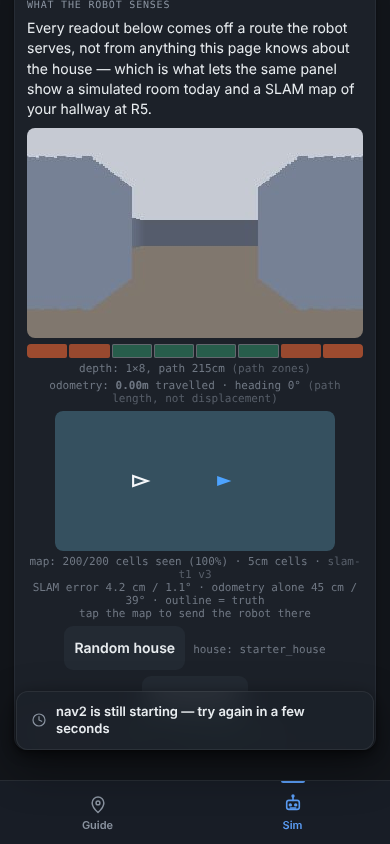
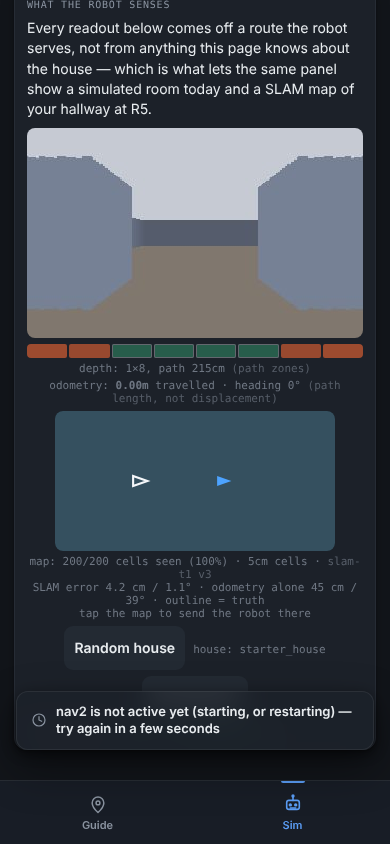
3.127.A review round 2: the nav2 toast says starting or restarting; criterion 3(b) recorded FAILED; SLAM_PASSING pinned to the bridge's states; test cleanups; known limits (the deployed ROS image predates 3.105)
Claude-Session: https://claude.ai/code/session_01JbXvZtF2YVwHMXMUdKtq8K

Changed region(s): [[0.1538, 0.8318, 0.8615, 0.8934]]

diff --git a/web-twin/app.js b/web-twin/app.js
@@ -867,7 +867,7 @@
   // name; told as a wait, not as the bridge's 503. (Only POST /world/goal
   // answers these; they never reach /health's last_refusal.)
   var GOAL_HOLD_TEXT = {
-    nav2_starting: "nav2 is still starting \u2014 try again in a few seconds",
+    nav2_starting: "nav2 is not active yet (starting, or restarting) \u2014 try again in a few seconds",
     slam_not_ready: "SLAM is not ready yet (starting, checking a saved map, or re-mapping) \u2014 try again in a few seconds",
   };
 

diff --git a/tests/test_nav2_hold_reason.py b/tests/test_nav2_hold_reason.py
@@ -85,18 +85,12 @@ def test_every_other_bridge_error_stays_ros_unavailable(monkeypatch, reply, retr
 
 def test_hold_reason_reads_only_a_503_with_the_bridges_hold_keys():
     req = httpx.Request("POST", "http://bridge/goal")
-
-    def err(status, body=None, content=None):
-        resp = (httpx.Response(status, json=body, request=req) if content is None
-                else httpx.Response(status, content=content, request=req))
-        return httpx.HTTPStatusError("x", request=req, response=resp)
-
-    assert bridge_faults.hold_reason(err(*NAV2_HELD)) == "nav2_starting"
-    assert bridge_faults.hold_reason(err(*SLAM_HELD)) == "slam_not_ready"
-    assert bridge_faults.hold_reason(err(503, {"error": "x"})) is None
-    assert bridge_faults.hold_reason(err(503, content=b"<html>proxy</html>")) is None
-    assert bridge_faults.hold_reason(err(503, ["nav2"])) is None
-    assert bridge_faults.hold_reason(err(502, {"nav2": {"active": False}})) is None
+    assert bridge_faults.hold_reason(_err(*NAV2_HELD)) == "nav2_starting"
+    assert bridge_faults.hold_reason(_err(*SLAM_HELD)) == "slam_not_ready"
+    assert bridge_faults.hold_reason(_err(503, {"error": "x"})) is None
+    assert bridge_faults.hold_reason(_err(503, content=b"<html>proxy</html>")) is None
+    assert bridge_faults.hold_reason(_err(503, ["nav2"])) is None
+    assert bridge_faults.hold_reason(_err(502, {"nav2": {"active": False, "inactive_s": 1.0}})) is None
     assert bridge_faults.hold_reason(httpx.ConnectError("gone", request=req)) is None
     assert bridge_faults.hold_reason(ValueError("not httpx")) is None
 
@@ -125,10 +119,23 @@ def test_nav2_reads_as_starting_only_inside_a_start(inactive_s, held):
     assert (bridge_faults.hold_reason(_err(503, body)) == "nav2_starting") is held
 
 
-def _err(status, body):
+def _err(status, body=None, content=None):
     req = httpx.Request("POST", "http://bridge/goal")
-    return httpx.HTTPStatusError("x", request=req,
-                                 response=httpx.Response(status, json=body, request=req))
+    resp = (httpx.Response(status, json=body, request=req) if content is None
+            else httpx.Response(status, content=content, request=req))
+    return httpx.HTTPStatusError("x", request=req, response=resp)
+
+
+def test_slam_passing_is_every_state_the_bridge_sets_but_ready_and_failed():
+    """Review round 2: SLAM_PASSING is copied from the bridge; a state the
+    bridge adds or renames must be sorted into it (or out) here, never fall
+    silently to ROS DOWN."""
+    import pathlib
+    import re
+    src = (pathlib.Path(__file__).resolve().parents[1] / "service/slam/src/picar_bridge"
+           / "picar_bridge/bridge.py").read_text()
+    states = set(re.findall(r'slam_state = "([a-z_]+)"', src))
+    assert states - {"ready", "failed"} == set(bridge_faults.SLAM_PASSING), states
 
 
 # ---------- criterion 2: explore still waits on it ----------

diff --git a/tests/test_ui_hold_labels.py b/tests/test_ui_hold_labels.py
@@ -4,7 +4,7 @@ room labeller.
 (a) A map tap the robot server refuses `nav2_starting` / `slam_not_ready`
 (the bridge holding goals at a start, 3.105 / 3.50.D3) is a start-up wait,
 told as information -- it was an error toast quoting the bridge's 503.
-(c) A survey whose label source refused for good shows why
+(b) A survey whose label source refused for good shows why
 (`source_error`), not "nothing can name rooms here", which a brain with no
 source at all also says. Written before the change and seen to fail
 (docs/plans/ros-alignment/3.127-twin-survey-error-nav2-hold.md).
@@ -70,7 +70,7 @@ SLAM_REPLY = {"accepted": False, "reason": "slam_not_ready", "retryable": True,
 # ---------- (a) a map tap during the hold ----------
 
 @pytest.mark.parametrize("reply, words", [
-    (NAV2_REPLY, "nav2 is still starting"),
+    (NAV2_REPLY, "nav2 is not active yet"),
     (SLAM_REPLY, "SLAM is not ready yet"),
 ])
 def test_a_map_tap_during_a_start_up_hold_is_information_not_an_error(
@@ -100,7 +100,7 @@ def test_a_map_tap_refused_as_ros_down_is_still_an_error(browser, twin_server):
     page.context.close()
 
 
-# ---------- (c) the survey row ----------
+# ---------- (b) the survey row ----------
 
 def _with_survey(**fields):
     status = survey_status(rooms=("kitchen",), calls=3)

diff --git a/docs/engineering/twin/ENGINEERING.md b/docs/engineering/twin/ENGINEERING.md
@@ -57,7 +57,7 @@ for hosts matching `NGROK_HOST`):
 | `GET /world/map`, `GET /world/pose`, `GET /world/error` | the map | Tri-state cells at the server's size. Under SLAM, the truth is drawn as a ghost and the errors are printed. |
 | `POST /sim/house/random`, `GET /health` `sim_map` | "Random house" under the map, and `house:` beside it | 3.72. Off until connected, while a brain mission runs, and while a swap is in flight. After a swap the page fetches a frame at once -- the map, depth and camera are re-read only with a frame -- so it draws the new house without anyone driving. |
 | `POST /world/remap` | "Re-map now" under the map (3.50.D4b) | Offered only on a SLAM map (`isSlamMap()`) while `state.connected`, set by `updateRemapButton()` from `renderMap()` and `setControlsEnabled()` -- so a failed connect hides it; a server that dies while the page is idle does not (the page has no such signal: the D-pad stays live too). Two taps: the first arms it for `REMAP_ARM_MS` (4 s, "Tap again to re-map"), and one sooner than `REMAP_MIN_GAP_MS` (400 ms: a double-tap, a bounce) does not count, since a re-map can cancel a live goal. `remapNow()` posts `{}` with `x-driver: twin-dpad`; `state.remapAsk` (`{url, ctl}`, compared by identity) holds the button at "Asking..." until that request settles, so one request at a time; past `REMAP_SLOW_MS` (20 s) a warning says it may have started, and past `REMAP_GIVE_UP_MS` (60 s) the fetch is aborted (`apiPost`'s optional `signal`) and the button freed -- an error answer already being read keeps its status, a 2xx whose body is cut off reads as no answer (the toast says it may have started); the bridge is not told, so it may still be re-mapping (its 409 says so). A request acts on its answer only while it is still `state.remapAsk`. Answers: 200 "Re-mapping from here" (and a driving goal may be cancelled); 409 a warning with the bridge's reason, the button kept (the page cannot see `slam.state`, so a refusal is how it learns the bridge is not localising on a saved map); 501/404 sets `state.remapUnsupported` and the button goes. `connect()` resets the flags; a request asked of another URL is aborted and released (a warning says it may have started there), and its answer dropped, one asked of the same URL is kept. Known limits: two spellings of one server (`localhost`, `127.0.0.1`) count as two; an answer landing after the 20 s warning is shown beside it. `tests/test_ui_remap.py` |
-| `GET /world/goal`, `POST /world/goal` | tap-to-goal | `{x_m, y_m}` in the house frame; only when the map is SLAM's; `accepted: false` shows the reason (an error toast with the server's `detail`), except a start-up hold: `nav2_starting` and `slam_not_ready` (3.127) are an information toast from `GOAL_HOLD_TEXT` ("nav2 is still starting -- try again in a few seconds", "SLAM is not ready yet (starting, checking a saved map, or re-mapping) ..."), never the bridge's 503 text; only this route answers them, so `last_refusal` never carries them. `onMapTap()` sends it with `x-driver: twin-dpad` (handoff 3b, 2026-10-05), so `world_goal_set()` arbitrates the tap as a person: during a mission it is accepted and the brain's next command is refused `preempted`. `tests/test_ui.py` pins the header. |
+| `GET /world/goal`, `POST /world/goal` | tap-to-goal | `{x_m, y_m}` in the house frame; only when the map is SLAM's; `accepted: false` shows the reason (an error toast with the server's `detail`), except a start-up hold: `nav2_starting` and `slam_not_ready` (3.127) are an information toast from `GOAL_HOLD_TEXT` ("nav2 is not active yet (starting, or restarting) -- try again in a few seconds", "SLAM is not ready yet (starting, checking a saved map, or re-mapping) ..."), never the bridge's 503 text; only this route answers them, so `last_refusal` never carries them. `onMapTap()` sends it with `x-driver: twin-dpad` (handoff 3b, 2026-10-05), so `world_goal_set()` arbitrates the tap as a person: during a mission it is accepted and the brain's next command is refused `preempted`. `tests/test_ui.py` pins the header. |
 | `GET /health` | watchdog readout, driver and last refusal, `min_distance_cm`, Drive via brain pre-flight (`mode` must be `teleop`) | polled every `WATCHDOG_POLL_MS`. A refusal's reason is named by `refusalLabel()`: `REFUSAL_LABEL` (`safety_distance` SAFETY VETO, `preempted`, `unreachable` NOT SENT, `rejected`, `watchdog`; since 3.86 `stopped` STOPPED, `person_stop` STOPPED BY A PERSON, `no_feedback` NO WHEEL FEEDBACK, `ros_unavailable` ROS DOWN), an unknown reason by its own name in words (underscores as spaces, upper-cased), and VETOED only when no reason came (an old server). A D-pad press the robot server answers refused flashes the Safety line's VETOED (for `SAFETY_FLASH_MS`) only when `refusalKind()` is `veto`: `safety_distance` or no reason, drawn at once (`renderTelemetry()`) and cleared by one timer, not when the next frame lands. Colour by `refusalKind()`: `veto` (a safety veto: `alert`; each kind's class is `REFUSAL_KIND_CLASS`, the same name on the action log's line and on the readout), `calm` (`stopped`, `person_stop`, `preempted`: no colour), `watchdog` (the alarm colour every refusal had before 3.86, no flash: the robot server records it after any silence past `watchdog_timeout_s`, every mission's end too, under the last driver's name, so the twin cannot tell a hung brain from a finished mission -- open), `fault` (everything else -- `no_feedback`, `ros_unavailable`, NOT SENT, REJECTED, an unknown reason: `warn`, the warning colour); a press that failed in `manualAction()`'s catch (NOT SENT: never reached the server; REJECTED: the server answered an HTTP error) never flashes |
 | `POST /teleop/frame` | Drive via brain | `{image_base64, media_type}`, primed once before `/mission/start`, then (3.90 E) on its own timer, `startFramePush()`, at `state.streamFps` (Settings: 2 / 4 / 8, pref `vp_stream_fps`, default 4) apart from the 500 ms status poll: one upload in flight, a tick that finds it still going skips its frame (newest wins, never a queue). Stops with Stop, the run's epoch, or the mission's end. The HUD's `FPS` row: delivered rate / set rate, ticks skipped, and the share of frames the brain never perceived (`tier.stats.frames_skipped`) |
 

diff --git a/docs/plans/ros-alignment/3.127-twin-survey-error-nav2-hold.md b/docs/plans/ros-alignment/3.127-twin-survey-error-nav2-hold.md
@@ -100,14 +100,16 @@ therefore skipped when reserving this number.
   `hold_reason()`.
 * **Criterion 2: MET.** Explore answers a held goal `WAIT`, fails no place
   (`goal refused: nav2_starting`).
-* **Criterion 3: MET as amended by review round 1 (below).** (a) a held tap
+* **Criterion 3: (a) and (c) MET; (b) FAILED** (withdrawn after the run:
+  review round 1 found it has no producer, below -- recorded as failed, not
+  re-scoped; CLAUDE.md section 7). (a) a held tap
   is an information toast, no error toast, no "503"; an outage keeps its
   error toast (guard). (c) the survey row reads "room naming stopped:
   <reason>", as text, cut at 100 characters by code point; `no_source`
   alone keeps its words (guard). Red on `dev`, each also run in its
   module's real order (`test_ui.py`, `test_ui_survey.py`,
   `test_ui_goal_tap.py`, `test_ui_remap.py`, this file: 198 passed).
-  **(b) dropped:** review round 1 found the readout labels have no
+  **(b) FAILED:** review round 1 found the readout labels have no
   producer -- `POST /world/goal` answers its refusal without recording it
   in `last_refusal`, and verbs are not held -- so `NAV2 STARTING` / `SLAM
   NOT READY` in `REFUSAL_LABEL` were dead code pinned by a test of a state
@@ -131,7 +133,25 @@ docstring in `evaluations/nav2-gate-3105/live.py`. Not taken: an explicit
 the contract test pins the bodies instead); the bridge's other 503 ("nav2
 is not up", no action server) stays `ros_unavailable` (also a nav2 crash).
 
-**Known limits.** At a fresh container start a tap is refused `no SLAM
+**Review round 2** (both reviewers on `876e0b93`; nothing above low,
+nothing on the safety path). Both: `nav2.inactive_s` runs from the bridge's
+start or its last active-to-inactive change, so (i) a slow cold start whose
+SLAM wait plus nav2's start passes 60 s reads `ros_unavailable` (the old
+behaviour, the safe direction; the Jetson's cold start is unmeasured
+against the bar), (ii) a nav2 that crashes mid-run reads as the hold for
+its first 60 s -- the toast now says "not active yet (starting, or
+restarting)" -- and (iii) a nav2 whose `is_active` answers flap never
+reaches the bar. All three are the client guessing what the bridge knows:
+the root fix is the bridge setting an explicit `hold` field (a bridge change
+and an image rebuild; the user's call). Taken: criterion 3(b) recorded
+FAILED, not "met as amended" (section 7); `SLAM_PASSING` pinned to the
+bridge source's `slam_state` assignments; the test's two error builders
+made one; the UI test's letters.
+
+**Known limits.** `vision-picar-ros:latest` (rebuilt 2026-10-18 from
+`778846d`) predates 3.105, so until it is rebuilt from `dev` its bridge
+neither holds goals for nav2 nor sends `inactive_s`: on that image this
+step changes only the twin's survey row and the SLAM holds. At a fresh container start a tap is refused `no SLAM
 session yet` before the bridge is asked (`/slam/pose` holds the start
 truth until `ready`), so that window still toasts as an error; the SLAM
 hold is mostly seen during a re-map. The find's `status.room_labels`
@@ -141,6 +161,6 @@ hold is mostly seen during a re-map. The find's `status.room_labels`
 
 | Step | Title | Needs | Waits | Touches | State |
 |---|---|---|---|---|---|
-| 3.127.A | The robot server names the hold; the twin labels it and the survey's source error; criteria 1-4 | -- | -- | `robot/server.py`, `world/bridge_faults.py`, `web-twin/app.js`, `tests/test_nav2_hold_reason.py`, `tests/test_ui_hold_labels.py`, `docs/engineering/twin/`, `docs/engineering/world/`, `docs/engineering/mission/`, `evaluations/twin-3127/`, `evaluations/nav2-gate-3105/` | done (criteria 1, 2, 4 met; 3 met with (b) dropped by review) |
+| 3.127.A | The robot server names the hold; the twin labels it and the survey's source error; criteria 1-4 | -- | -- | `robot/server.py`, `world/bridge_faults.py`, `web-twin/app.js`, `tests/test_nav2_hold_reason.py`, `tests/test_ui_hold_labels.py`, `docs/engineering/twin/`, `docs/engineering/world/`, `docs/engineering/mission/`, `evaluations/twin-3127/`, `evaluations/nav2-gate-3105/` | done (criteria 1, 2, 4 met; 3 (a), (c) met, (b) FAILED: no producer) |
 | 3.127.B | Review, gate, merge to `dev` (criterion 5) | 3.127.A | -- | `CLAUDE.md` | open |
 | 3.127.C | Deploy the twin and update the board (criterion 6) | 3.127.B | the user | -- | open |
